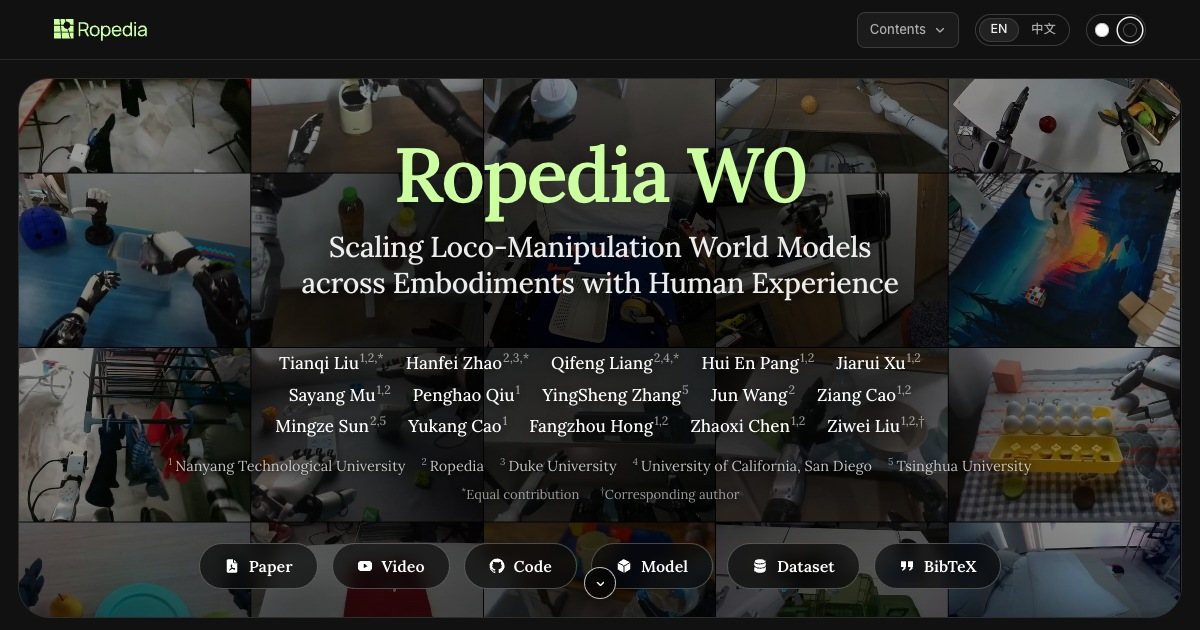
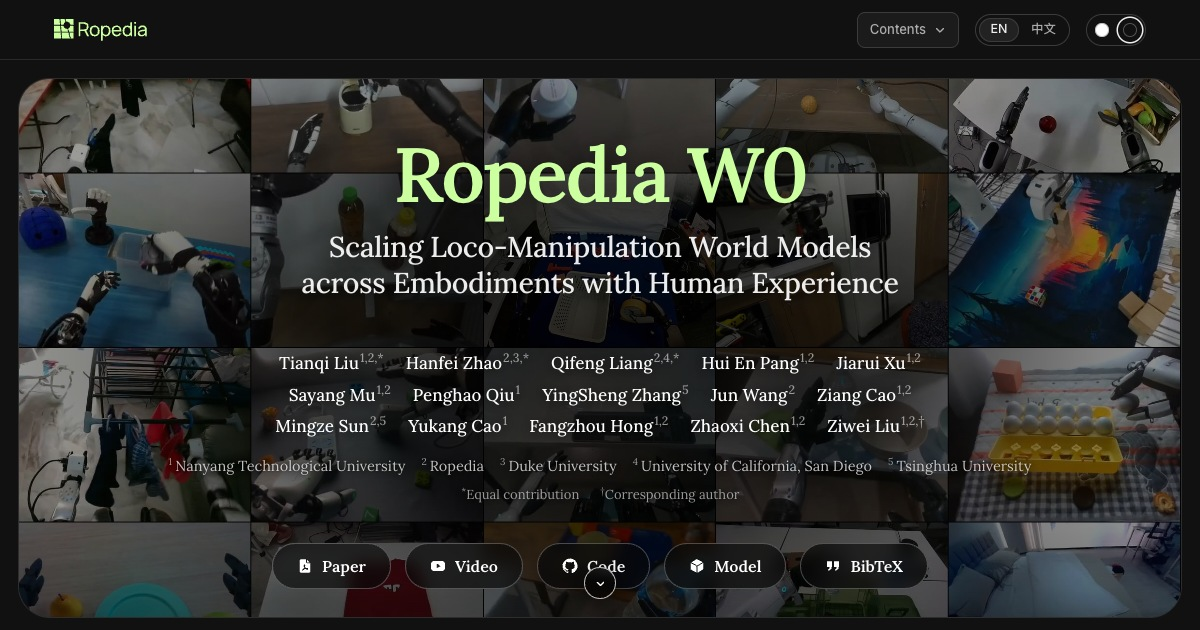
Publish paper, video, code and model links with technical report citation

Changed region(s): [[0.1542, 0.8444, 0.8325, 0.9349]]

diff --git a/index.html b/index.html
@@ -10,13 +10,13 @@
 <meta property="og:type" content="website">
 <meta property="og:title" content="Ropedia W0: Scaling Loco-Manipulation World Models across Embodiments with Human Experience">
 <meta property="og:description" content="An egocentric loco-manipulation world model that learns from human experience and predicts across embodiments.">
-<meta property="og:image" content="https://ropedia.github.io/ropedia-w0/media/og_cover.jpg?v=20261018-ropedia-w0">
+<meta property="og:image" content="https://ropedia.github.io/ropedia-w0/media/og_cover.jpg?v=20261019-resources">
 <meta property="og:image:width" content="1200">
 <meta property="og:image:height" content="630">
 <meta name="twitter:card" content="summary_large_image">
 <meta name="twitter:title" content="Ropedia W0: Scaling Loco-Manipulation World Models across Embodiments with Human Experience">
 <meta name="twitter:description" content="An egocentric loco-manipulation world model that learns from human experience and predicts across embodiments.">
-<meta name="twitter:image" content="https://ropedia.github.io/ropedia-w0/media/og_cover.jpg?v=20261018-ropedia-w0">
+<meta name="twitter:image" content="https://ropedia.github.io/ropedia-w0/media/og_cover.jpg?v=20261019-resources">
 <meta name="theme-color" content="#111111">
 <title>Ropedia W0: Scaling Loco-Manipulation World Models across Embodiments with Human Experience</title>
 <link rel="icon" type="image/svg+xml" href="assets/favicon.svg?v=20261018-ropedia-w0">
@@ -73,12 +73,10 @@
         </div>
       </div>
       <nav class="paper-links" aria-label="Paper resources">
-    <!-- Add the href to each link once it is public; until then the button shows but does not navigate. -->
-    <a class="btn" title="Paper (arXiv) coming soon"><svg viewBox="0 0 24 24" aria-hidden="true"><path d="M6.2 1.8h8.1l5.5 5.5v12.9a2 2 0 0 1-2 2H6.2a2 2 0 0 1-2-2V3.8a2 2 0 0 1 2-2Z"/><path class="cut" d="M14.3 1.8v4.3a1.2 1.2 0 0 0 1.2 1.2h4.3"/><path class="cut" d="M8.3 18.3c1.5-1 3.2-4.4 3.5-7.1.1-1.1-.7-1.5-1.1-.8-.6 1 .3 3.4 2.4 5.3 1.3 1.2 3.1 1.6 3.5 1 .4-.6-.8-1.2-2.6-1.1-2.1.1-4.5 1.1-5.7 2.7Z"/></svg>Paper</a>
-    <a class="btn" title="Video (YouTube) coming soon"><svg viewBox="0 0 24 24" aria-hidden="true"><path fill-rule="evenodd" d="M6 4.5h12A4.5 4.5 0 0 1 22.5 9v6a4.5 4.5 0 0 1-4.5 4.5H6A4.5 4.5 0 0 1 1.5 15V9A4.5 4.5 0 0 1 6 4.5Zm4 4v7l6-3.5z"/></svg>Video</a>
-    <a class="btn" title="Code coming soon"><svg viewBox="0 0 24 24" aria-hidden="true"><path d="M12 .8a11.2 11.2 0 0 0-3.54 21.83c.56.1.76-.24.76-.54v-1.9c-3.11.68-3.77-1.5-3.77-1.5-.51-1.29-1.25-1.64-1.25-1.64-1.01-.69.08-.68.08-.68 1.12.08 1.71 1.15 1.71 1.15 1 1.71 2.62 1.22 3.26.93.1-.72.39-1.22.71-1.5-2.48-.28-5.1-1.24-5.1-5.53 0-1.22.44-2.22 1.15-3-.11-.29-.5-1.42.11-2.97 0 0 .94-.3 3.08 1.15a10.7 10.7 0 0 1 5.6 0c2.14-1.45 3.08-1.15 3.08-1.15.61 1.55.23 2.68.11 2.97.72.78 1.15 1.78 1.15 3 0 4.3-2.62 5.24-5.11 5.52.4.35.76 1.03.76 2.08v3.08c0 .3.2.65.77.54A11.2 11.2 0 0 0 12 .8Z"/></svg>Code</a>
-    <a class="btn" title="Model weights (Hugging Face) coming soon"><svg viewBox="0 0 24 24" aria-hidden="true"><path d="M12 1.6 21.2 6.8v10.4L12 22.4l-9.2-5.2V6.8Z"/><path class="cut" d="M2.8 6.8 12 12l9.2-5.2M12 12v10.4"/></svg>Model</a>
-    <a class="btn" title="Xp-Teleop dataset (Hugging Face) coming soon"><svg viewBox="0 0 24 24" aria-hidden="true"><path d="M12 1.8c4.7 0 8.5 1.6 8.5 3.6v13.2c0 2-3.8 3.6-8.5 3.6s-8.5-1.6-8.5-3.6V5.4c0-2 3.8-3.6 8.5-3.6Z"/><path class="cut" d="M3.5 5.4c0 2 3.8 3.6 8.5 3.6s8.5-1.6 8.5-3.6M3.5 11.8c0 2 3.8 3.6 8.5 3.6s8.5-1.6 8.5-3.6"/></svg>Dataset</a>
+    <a class="btn" href="https://drive.google.com/file/d/1_EmBFUXP9sownp1Q3Bw6tAGcuFW5EdsQ/view?usp=sharing" target="_blank" rel="noopener noreferrer" title="Read the paper"><svg viewBox="0 0 24 24" aria-hidden="true"><path d="M6.2 1.8h8.1l5.5 5.5v12.9a2 2 0 0 1-2 2H6.2a2 2 0 0 1-2-2V3.8a2 2 0 0 1 2-2Z"/><path class="cut" d="M14.3 1.8v4.3a1.2 1.2 0 0 0 1.2 1.2h4.3"/><path class="cut" d="M8.3 18.3c1.5-1 3.2-4.4 3.5-7.1.1-1.1-.7-1.5-1.1-.8-.6 1 .3 3.4 2.4 5.3 1.3 1.2 3.1 1.6 3.5 1 .4-.6-.8-1.2-2.6-1.1-2.1.1-4.5 1.1-5.7 2.7Z"/></svg>Paper</a>
+    <a class="btn" href="https://youtu.be/5I3a1G-mDko" target="_blank" rel="noopener noreferrer" title="Watch the video on YouTube"><svg viewBox="0 0 24 24" aria-hidden="true"><path fill-rule="evenodd" d="M6 4.5h12A4.5 4.5 0 0 1 22.5 9v6a4.5 4.5 0 0 1-4.5 4.5H6A4.5 4.5 0 0 1 1.5 15V9A4.5 4.5 0 0 1 6 4.5Zm4 4v7l6-3.5z"/></svg>Video</a>
+    <a class="btn" href="https://github.com/Ropedia/ropedia-w0" target="_blank" rel="noopener noreferrer" title="View code on GitHub"><svg viewBox="0 0 24 24" aria-hidden="true"><path d="M12 .8a11.2 11.2 0 0 0-3.54 21.83c.56.1.76-.24.76-.54v-1.9c-3.11.68-3.77-1.5-3.77-1.5-.51-1.29-1.25-1.64-1.25-1.64-1.01-.69.08-.68.08-.68 1.12.08 1.71 1.15 1.71 1.15 1 1.71 2.62 1.22 3.26.93.1-.72.39-1.22.71-1.5-2.48-.28-5.1-1.24-5.1-5.53 0-1.22.44-2.22 1.15-3-.11-.29-.5-1.42.11-2.97 0 0 .94-.3 3.08 1.15a10.7 10.7 0 0 1 5.6 0c2.14-1.45 3.08-1.15 3.08-1.15.61 1.55.23 2.68.11 2.97.72.78 1.15 1.78 1.15 3 0 4.3-2.62 5.24-5.11 5.52.4.35.76 1.03.76 2.08v3.08c0 .3.2.65.77.54A11.2 11.2 0 0 0 12 .8Z"/></svg>Code</a>
+    <a class="btn" href="https://huggingface.co/ropedia-ai/Ropedia-W0" target="_blank" rel="noopener noreferrer" title="View model weights on Hugging Face"><svg viewBox="0 0 24 24" aria-hidden="true"><path d="M12 1.6 21.2 6.8v10.4L12 22.4l-9.2-5.2V6.8Z"/><path class="cut" d="M2.8 6.8 12 12l9.2-5.2M12 12v10.4"/></svg>Model</a>
     <a class="btn" href="#citation"><svg viewBox="0 0 24 24" aria-hidden="true"><path d="M3 5h7.5v7c0 3.6-2.1 6-5.6 7.2l-.9-1.7c2-.9 3-2.1 3.2-3.9H3zm10.5 0H21v7c0 3.6-2.1 6-5.6 7.2l-.9-1.7c2-.9 3-2.1 3.2-3.9h-4.2z"/></svg>BibTeX</a>
   </nav>
     </div>
@@ -311,18 +309,15 @@
   </header>
   <div class="cite-card">
     <p class="cite-note">BibTeX</p>
-    <!-- BibTeX left empty until the paper is out. Draft entry, to restore:
-@article{liu2026ropediaw0,
-  title  = {Ropedia W0: Scaling Loco-Manipulation World Models
-            across Embodiments with Human Experience},
-  author = {Liu, Tianqi and Zhao, Hanfei and Liang, Qifeng and Pang, Hui En and
-            Xu, Jiarui and Mu, Sayang and Qiu, Penghao and Zhang, YingSheng and
-            Wang, Jun and Cao, Ziang and Sun, Mingze and Cao, Yukang and
-            Hong, Fangzhou and Chen, Zhaoxi and Liu, Ziwei},
-  year   = {2026}
-}
-    -->
-    <p class="cite-empty">Coming soon</p>
+    <div class="cite">
+      <button class="icon copy" id="copyBib" type="button" aria-label="Copy BibTeX" title="Copy BibTeX">⧉</button>
+      <pre id="bib">@article{liu2026ropedia,
+  title={Ropedia W0: Scaling Loco-Manipulation World Models across Embodiments with Human Experience},
+  author={Liu, Tianqi and Zhao, Hanfei and Liang, Qifeng and Pang, Hui En and Xu, Jiarui and Mu, Sayang and Qiu, Penghao and Zhang, YingSheng and Wang, Jun and Cao, Ziang and Sun, Mingze and Cao, Yukang and Hong, Fangzhou and Chen, Zhaoxi and Liu, Ziwei},
+  journal={Technical report},
+  year={2026}
+}</pre>
+    </div>
   </div>
 
 </article>
@@ -334,9 +329,9 @@
 <script src="assets/ld_tracks.js"></script>
 <script src="assets/video-variants.js?v=20261018-ropedia-w0"></script>
 <script src="assets/media.js?v=20261018-ropedia-w0"></script>
-<script src="assets/main.js?v=20261018-ropedia-w0"></script>
+<script src="assets/main.js?v=20261019-resources"></script>
 <script src="assets/manifest.js"></script>
 <script src="assets/explore.js?v=20261018-ropedia-w0"></script>
-<script src="assets/i18n.js?v=20261018-ropedia-w0"></script>
+<script src="assets/i18n.js?v=20261019-video"></script>
 </body>
 </html>

diff --git a/assets/i18n.js b/assets/i18n.js
@@ -116,8 +116,8 @@ const TEXT={
 'Reference':'参考','.':'。','Citation':'引用','Coming soon':'即将发布','Back to top ↑':'返回顶部 ↑',
 // controls and accessible names
 'Background':'背景','White background':'白色背景','Black background':'黑色背景','Language':'语言','Sections':'章节','Paper resources':'论文资源',
-'Paper (arXiv) coming soon':'论文（arXiv）即将发布','Video (YouTube) coming soon':'视频（YouTube）即将发布','Code coming soon':'代码即将发布',
-'Model weights (Hugging Face) coming soon':'模型权重（Hugging Face）即将发布','Xp-Teleop dataset (Hugging Face) coming soon':'Xp-Teleop 数据集（Hugging Face）即将发布',
+'Read the paper':'阅读论文','Watch the video on YouTube':'在 YouTube 观看视频','View code on GitHub':'在 GitHub 查看代码',
+'View model weights on Hugging Face':'在 Hugging Face 查看模型权重','Copy BibTeX':'复制 BibTeX',
 'Scroll to the video':'滚动到视频','Research video':'研究视频','Ropedia W0 video':'Ropedia W0 视频','Seek the video':'拖动视频进度',
 'Play':'播放','Pause':'暂停','Enter full screen':'全屏','Exit full screen':'退出全屏','Unmute':'取消静音','Mute':'静音','Video time':'视频时间',
 'Data videos':'数据视频','View':'视图','Data budget':'数据量','Task':'任务','Embodiment':'本体','Session':'片段',

diff --git a/assets/main.js b/assets/main.js
@@ -268,7 +268,7 @@ function drawPolicy(){const s=$('#ev');s.innerHTML='';$('#pl').innerHTML='';cons
 drawCharts();
 // Redraw when the layout crosses into or out of the compact phone form (the media query's change event, with resize as a fallback).
 {let was=phoneCharts.matches;const sync=()=>{if(phoneCharts.matches!==was){was=phoneCharts.matches;drawScalingAll()}};phoneCharts.addEventListener('change',sync);addEventListener('resize',sync)}
-// Copy button for the BibTeX block (#bib, #copyBib); does nothing until the entry commented out in index.html is restored.
+// Copy the BibTeX block as plain text.
 $('#copyBib')?.addEventListener('click',e=>{const b=e.currentTarget,t=$('#bib').textContent;navigator.clipboard.writeText(t).then(()=>{b.textContent='✓'},()=>{const r=document.createRange();r.selectNodeContents($('#bib'));const s=getSelection();s.removeAllRanges();s.addRange(r);b.textContent='⌘C'});setTimeout(()=>b.textContent='⧉',1800)});
 
 // Follow the reading position, including jumps that skip an observer's narrow band.
